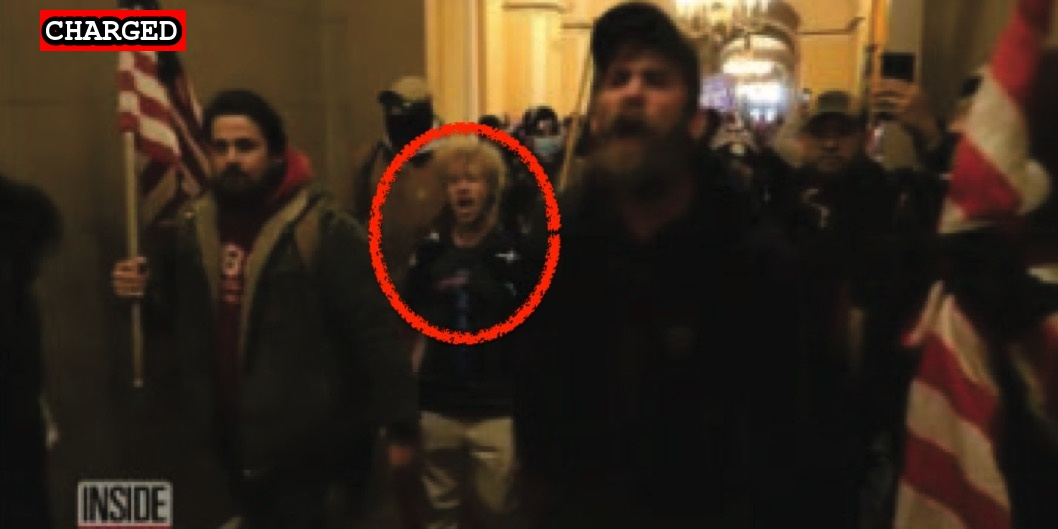
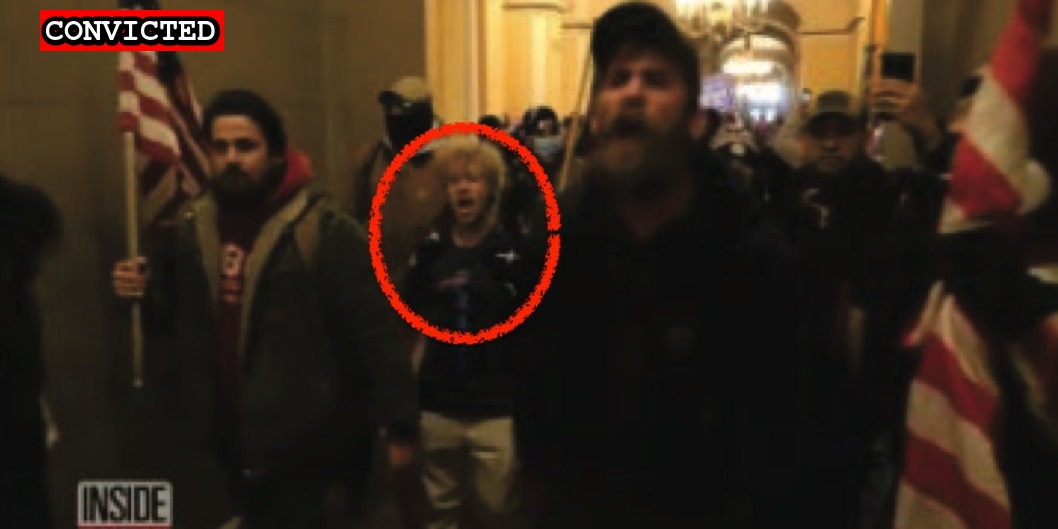
Latest import

Changed region(s): [[0.0624, 0.0, 0.2183, 0.121]]

diff --git a/docs/_suspects/anthony-scirica.md b/docs/_suspects/anthony-scirica.md
@@ -4,15 +4,15 @@ lastName: Scirica
 hashtag: AnthonyScirica
 aka:
 residence: North Carolina
-status: Charged
+status: Convicted
 date: 2021-06-14
 charged: 2021-06-14
 indicted:
-convicted:
+convicted: 2021-09-28
 sentenced:
 dismissed:
 deceased:
-plea_hearing:
+plea_hearing: 2021-09-28
 sentencing:
 age:
 occupation:
@@ -34,8 +34,14 @@ published: true
 caseNumber:
 videos:
 charges:
+  - code: 18 USC § 5104(e)(2)(G)
+    title: Parading, demonstrating or picketing in a Capitol building
+    url: https://www.law.cornell.edu/uscode/text/40/5104
+    felony: false
 sentence:
 ---
+
 - [News Report](https://www.newsweek.com/capitol-rioter-anthony-scirica-charged-after-friend-snapchats-about-him-tv-1601370)
 - [Statement of Facts](https://www.justice.gov/usao-dc/case-multi-defendant/file/1405461/download)
 - [Information](https://extremism.gwu.edu/sites/g/files/zaxdzs2191/f/Anthony%20Scirica%20Information.pdf)
+- [Plea Agreement](https://extremism.gwu.edu/sites/g/files/zaxdzs2191/f/Anthony%20Scirica%20Plea%20Agreement.pdf)

diff --git a/docs/_suspects/diana-santos-smith.md b/docs/_suspects/diana-santos-smith.md
@@ -34,14 +34,14 @@ published: true
 caseNumber: 1:21-cr-271
 videos:
 charges:
-  - code: 18 USC § 5104(e)(2)(G)
-    title: Parading, demonstrating or picketing in a Capitol building
-    url: https://www.law.cornell.edu/uscode/text/40/5104
-    felony: false
+- code: 18 USC § 5104(e)(2)(G)
+  title: Parading, demonstrating or picketing in a Capitol building
+  url: https://www.law.cornell.edu/uscode/text/40/5104
+  felony: false
 sentence:
 ---
-
 - [News Report](https://www.mcall.com/news/police/mc-nws-pennsylvania-women-charged-in-capitol-siege-20210130-zsgjdrfdibgpboyuatcphtlaxq-story.html)
 - [Complaint](https://www.justice.gov/opa/page/file/1362581/download)
 - [Statement of Facts](https://www.justice.gov/opa/page/file/1362581/download)
 - [Information](https://www.justice.gov/usao-dc/case-multi-defendant/file/1383076/download)
+- [Plea Agreement](https://extremism.gwu.edu/sites/g/files/zaxdzs2191/f/Diana%20Santos-Smith%20Plea%20Agreement.pdf)

diff --git a/docs/_suspects/troy-smocks.md b/docs/_suspects/troy-smocks.md
@@ -45,3 +45,4 @@ sentence:
 - [Complaint](https://www.justice.gov/opa/page/file/1355891/download)
 - [Statement of Facts](https://www.justice.gov/opa/page/file/1355896/download)
 - [Indictment](https://www.justice.gov/usao-dc/case-multi-defendant/file/1377816/download)
+- [Plea Agreement](https://extremism.gwu.edu/sites/g/files/zaxdzs2191/f/Troy%20Anthony%20Smocks%20Plea%20Agreement.pdf)
